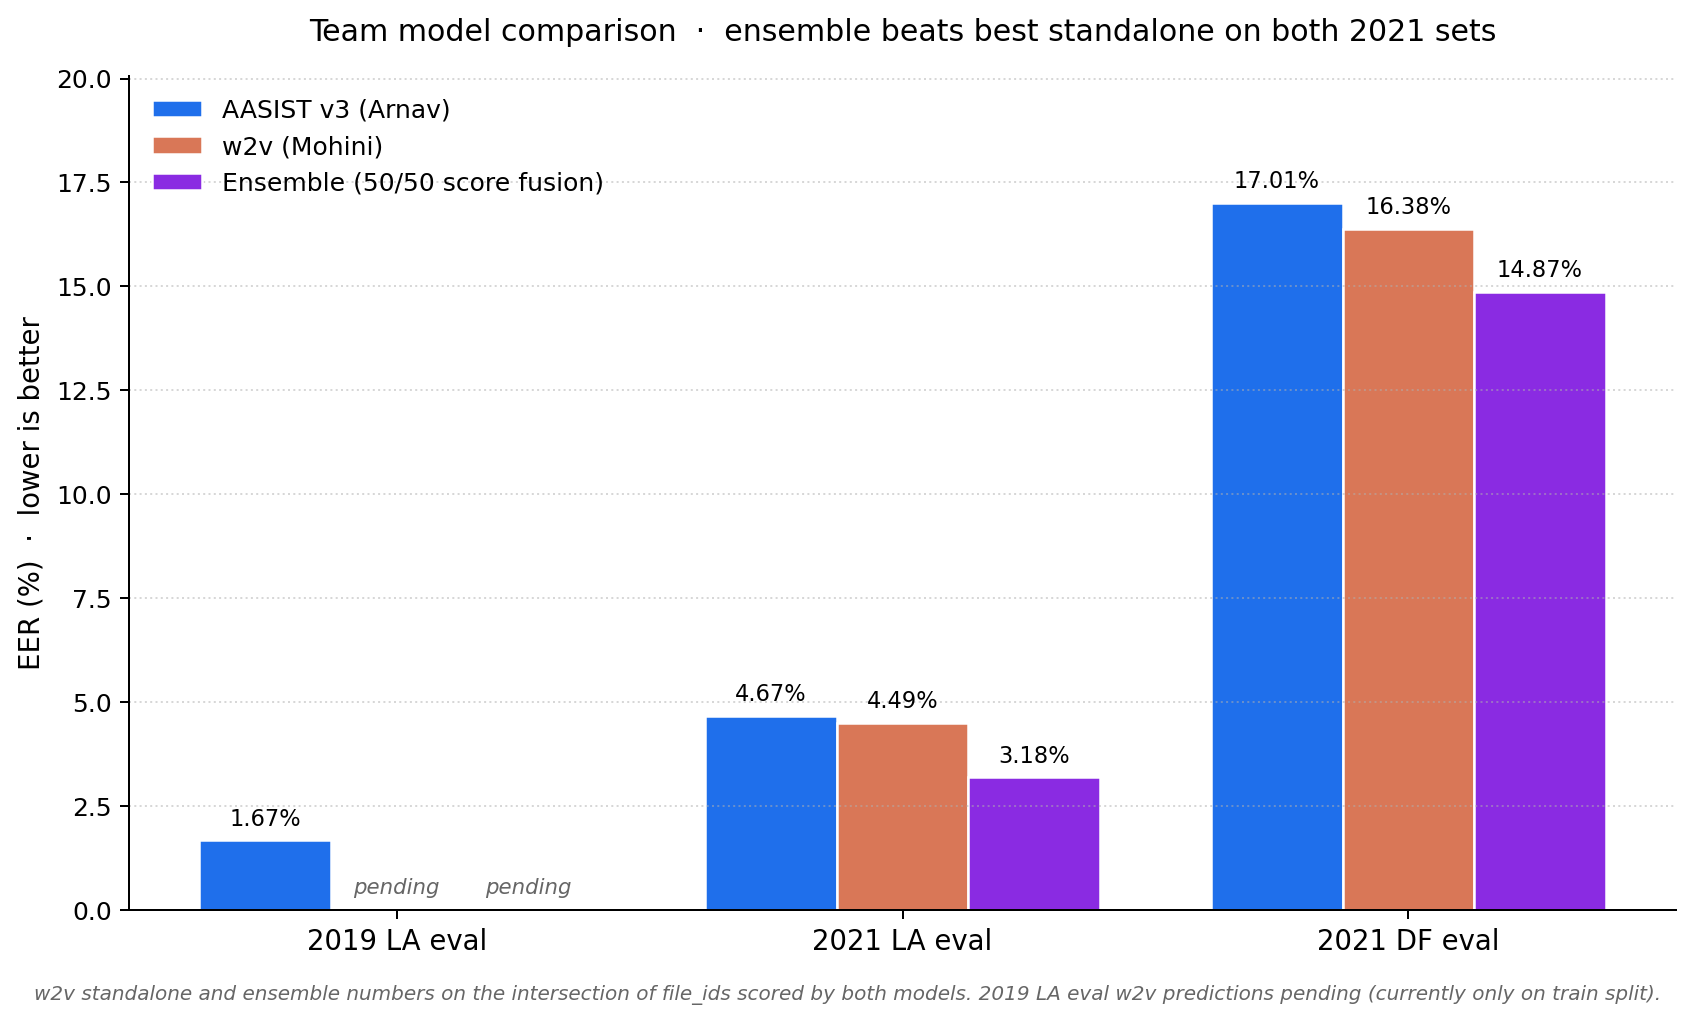
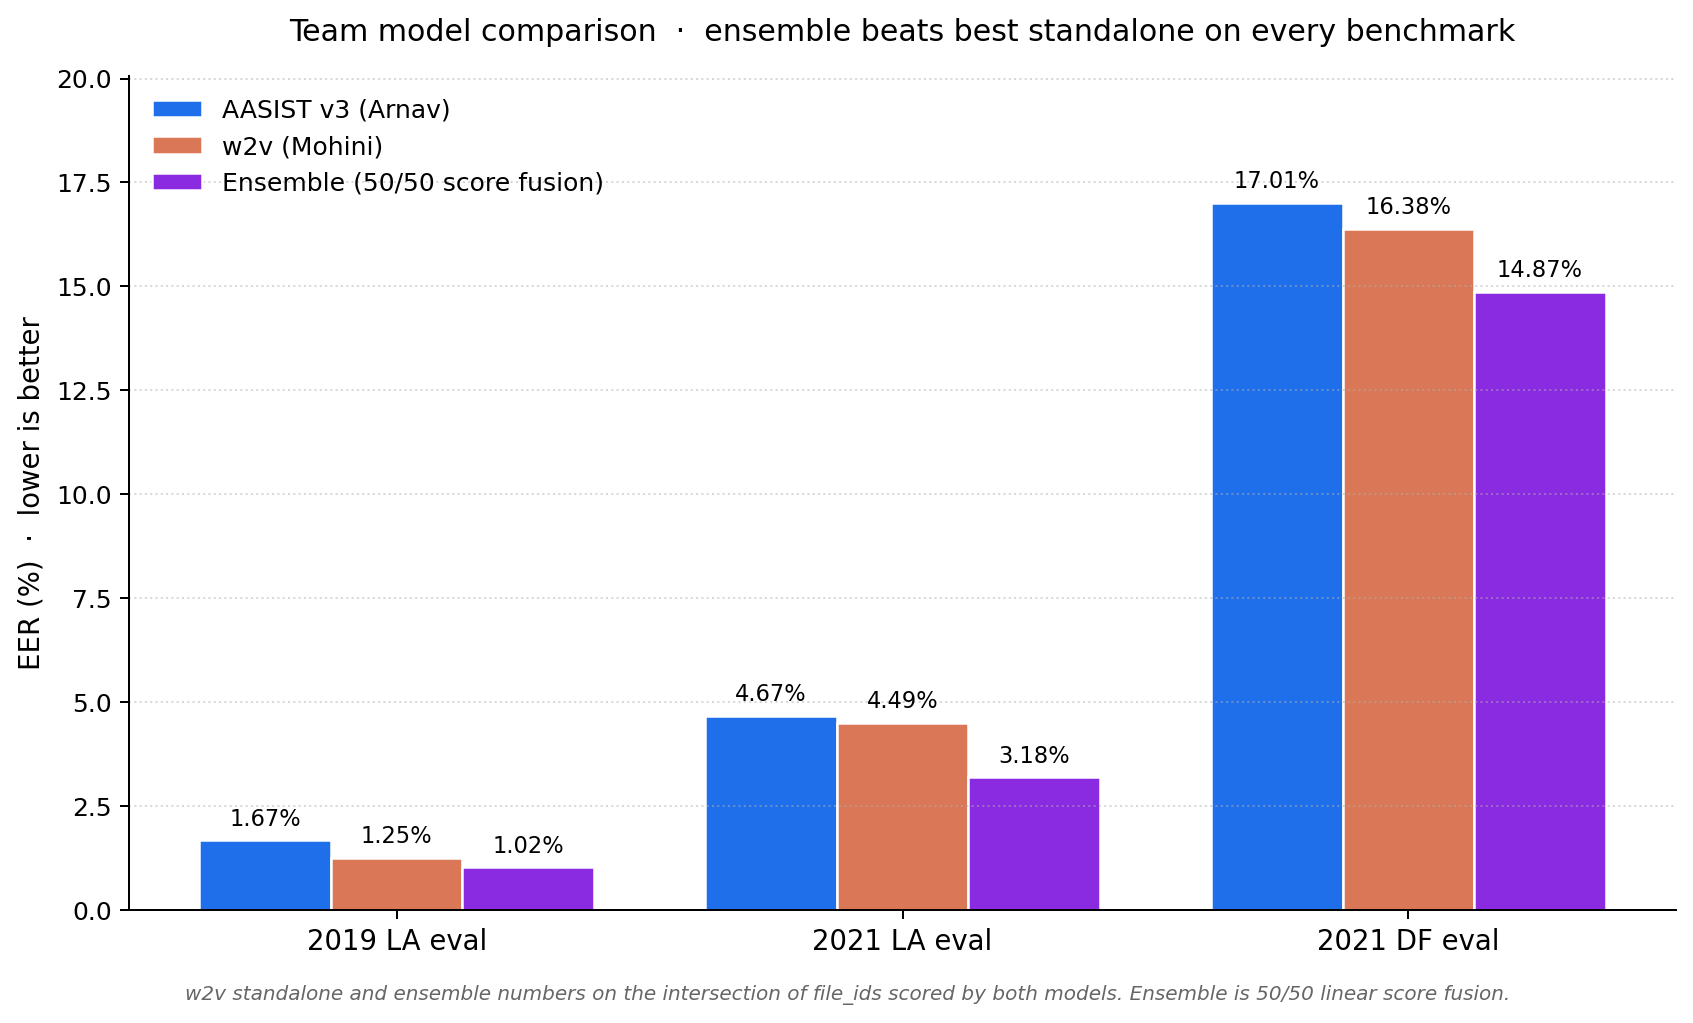
Add 2019 LA to ensemble (Mohini's fixed eval predictions in)
Complete ensemble picture on all three benchmarks:

2019 LA eval:
- AASIST v3: 1.67%
- w2v: 1.25% (beats AASIST here)
- 50/50 ensemble: 1.02%
- optimal (w2v=0.23): 0.92%

2021 LA eval: 4.67 / 4.49 / 3.18 / 2.84 (w2v=0.47)
2021 DF eval: 17.01 / 16.38 / 14.87 / 14.74 (w2v=0.76)

Ensemble beats best standalone on every benchmark (0.33pp on 2019 LA,
1.65pp on both 2021 sets). Updated team comparison chart accordingly.

diff --git a/aasist/results/v3_predictions/compute_ensemble.py b/aasist/results/v3_predictions/compute_ensemble.py
@@ -26,16 +26,22 @@ OUT_DIR = REPO_ROOT / "aasist" / "results"
 
 DATASETS = [
     {
-        "name": "2021 DF eval",
-        "slug": "2021_df",
-        "aasist_csv": AASIST_DIR / "v3_2021_DF_eval_predictions.csv",
-        "w2v_csv": W2V_DIR / "test_predictions_fixed2.csv",
+        "name": "2019 LA eval",
+        "slug": "2019_la",
+        "aasist_csv": AASIST_DIR / "v3_2019_LA_eval_predictions.csv",
+        "w2v_csv": W2V_DIR / "test_predictions_LA_2019 (1).csv",
     },
     {
         "name": "2021 LA eval",
         "slug": "2021_la",
         "aasist_csv": AASIST_DIR / "v3_2021_LA_eval_predictions.csv",
         "w2v_csv": W2V_DIR / "test_predictions_LA_2021.csv",
+    },
+    {
+        "name": "2021 DF eval",
+        "slug": "2021_df",
+        "aasist_csv": AASIST_DIR / "v3_2021_DF_eval_predictions.csv",
+        "w2v_csv": W2V_DIR / "test_predictions_fixed2.csv",
     },
 ]
 

diff --git a/aasist/results/v3_predictions/make_v3_charts.py b/aasist/results/v3_predictions/make_v3_charts.py
@@ -14,7 +14,7 @@ EER = {
 }
 
 TEAM_EER = {
-    "2019 LA eval": {"aasist_v3": 1.67, "w2v": None,  "ensemble": None},
+    "2019 LA eval": {"aasist_v3": 1.67, "w2v": 1.25, "ensemble": 1.02},
     "2021 LA eval": {"aasist_v3": 4.67, "w2v": 4.49, "ensemble": 3.18},
     "2021 DF eval": {"aasist_v3": 17.01, "w2v": 16.38, "ensemble": 14.87},
 }
@@ -141,7 +141,7 @@ def chart_team_comparison():
     ax.set_xticks(x)
     ax.set_xticklabels(benchmarks, fontsize=11)
     ax.set_ylabel("EER (%)  ·  lower is better", fontsize=11)
-    ax.set_title("Team model comparison  ·  ensemble beats best standalone on both 2021 sets",
+    ax.set_title("Team model comparison  ·  ensemble beats best standalone on every benchmark",
                  fontsize=12, pad=14)
     max_val = max(v for v in aasist_vals + w2v_vals + ens_vals if v is not None)
     ax.set_ylim(0, max_val * 1.18)
@@ -151,7 +151,7 @@ def chart_team_comparison():
     ax.grid(axis="y", linestyle=":", alpha=0.5)
     fig.text(0.5, -0.02,
              "w2v standalone and ensemble numbers on the intersection of file_ids scored by both models. "
-             "2019 LA eval w2v predictions pending (currently only on train split).",
+             "Ensemble is 50/50 linear score fusion.",
              ha="center", fontsize=8, color="#666", style="italic")
     fig.tight_layout()
     p = OUT / "v3_chart_team_comparison.png"